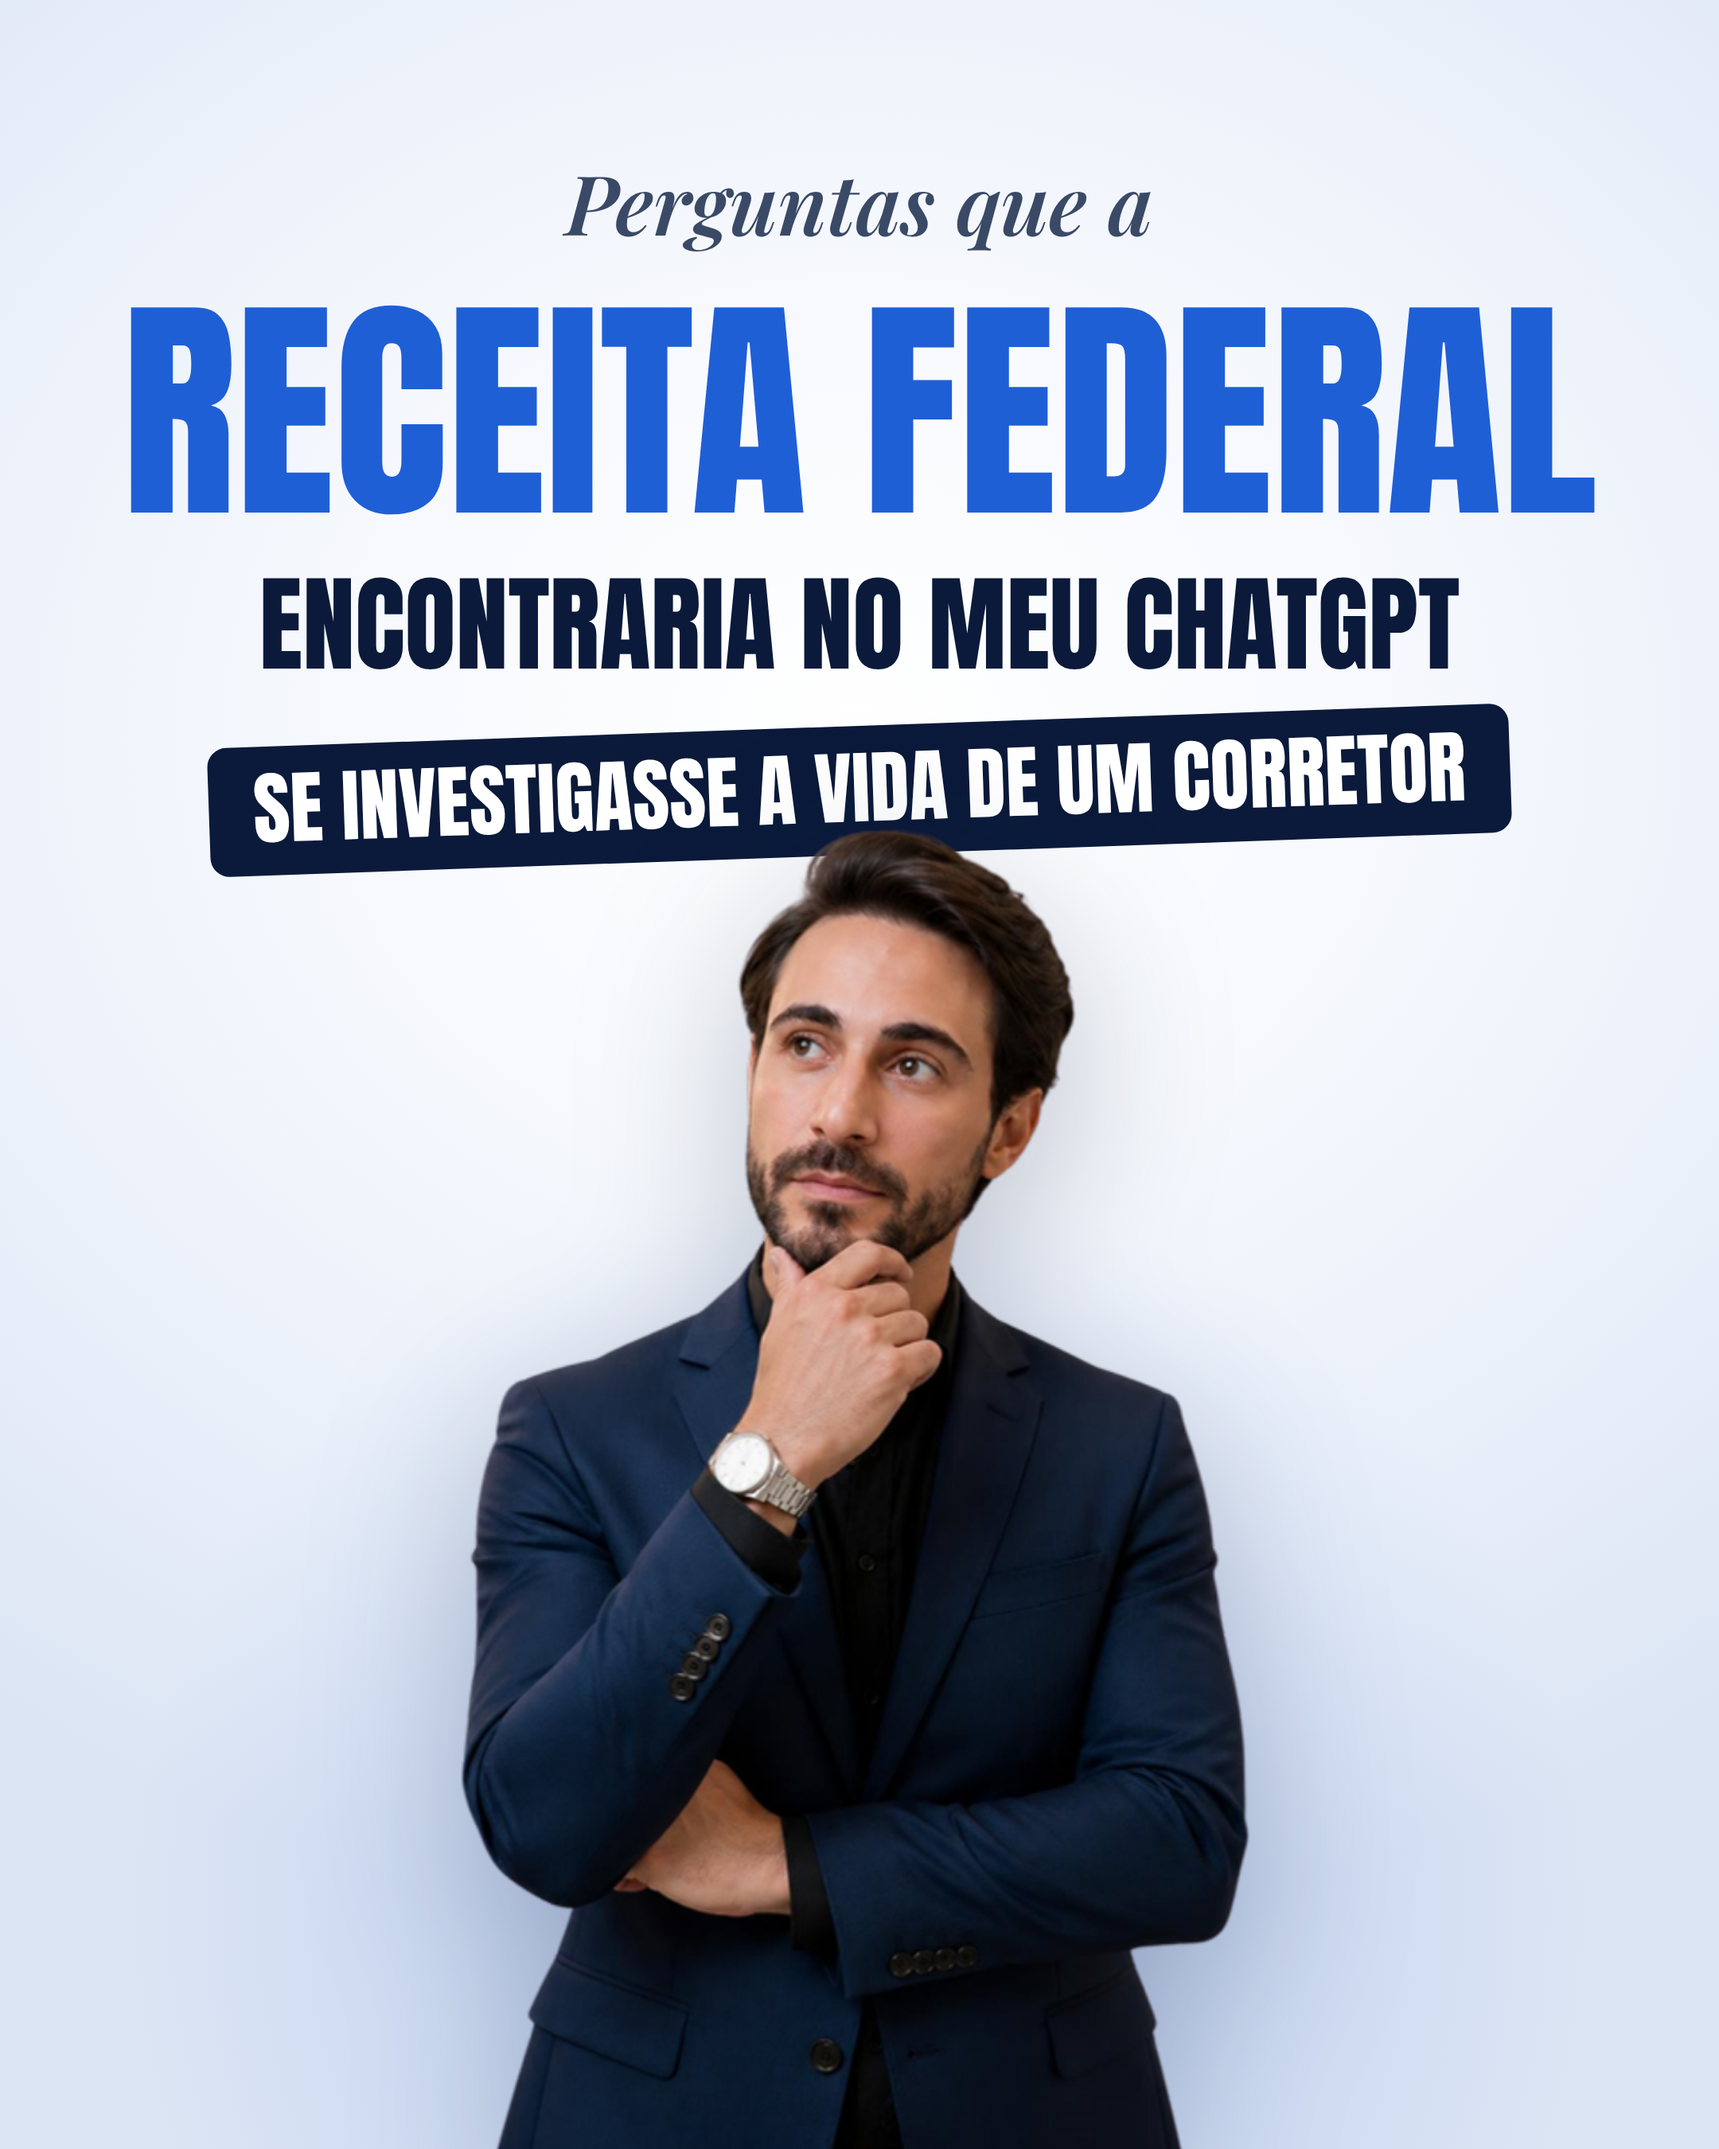
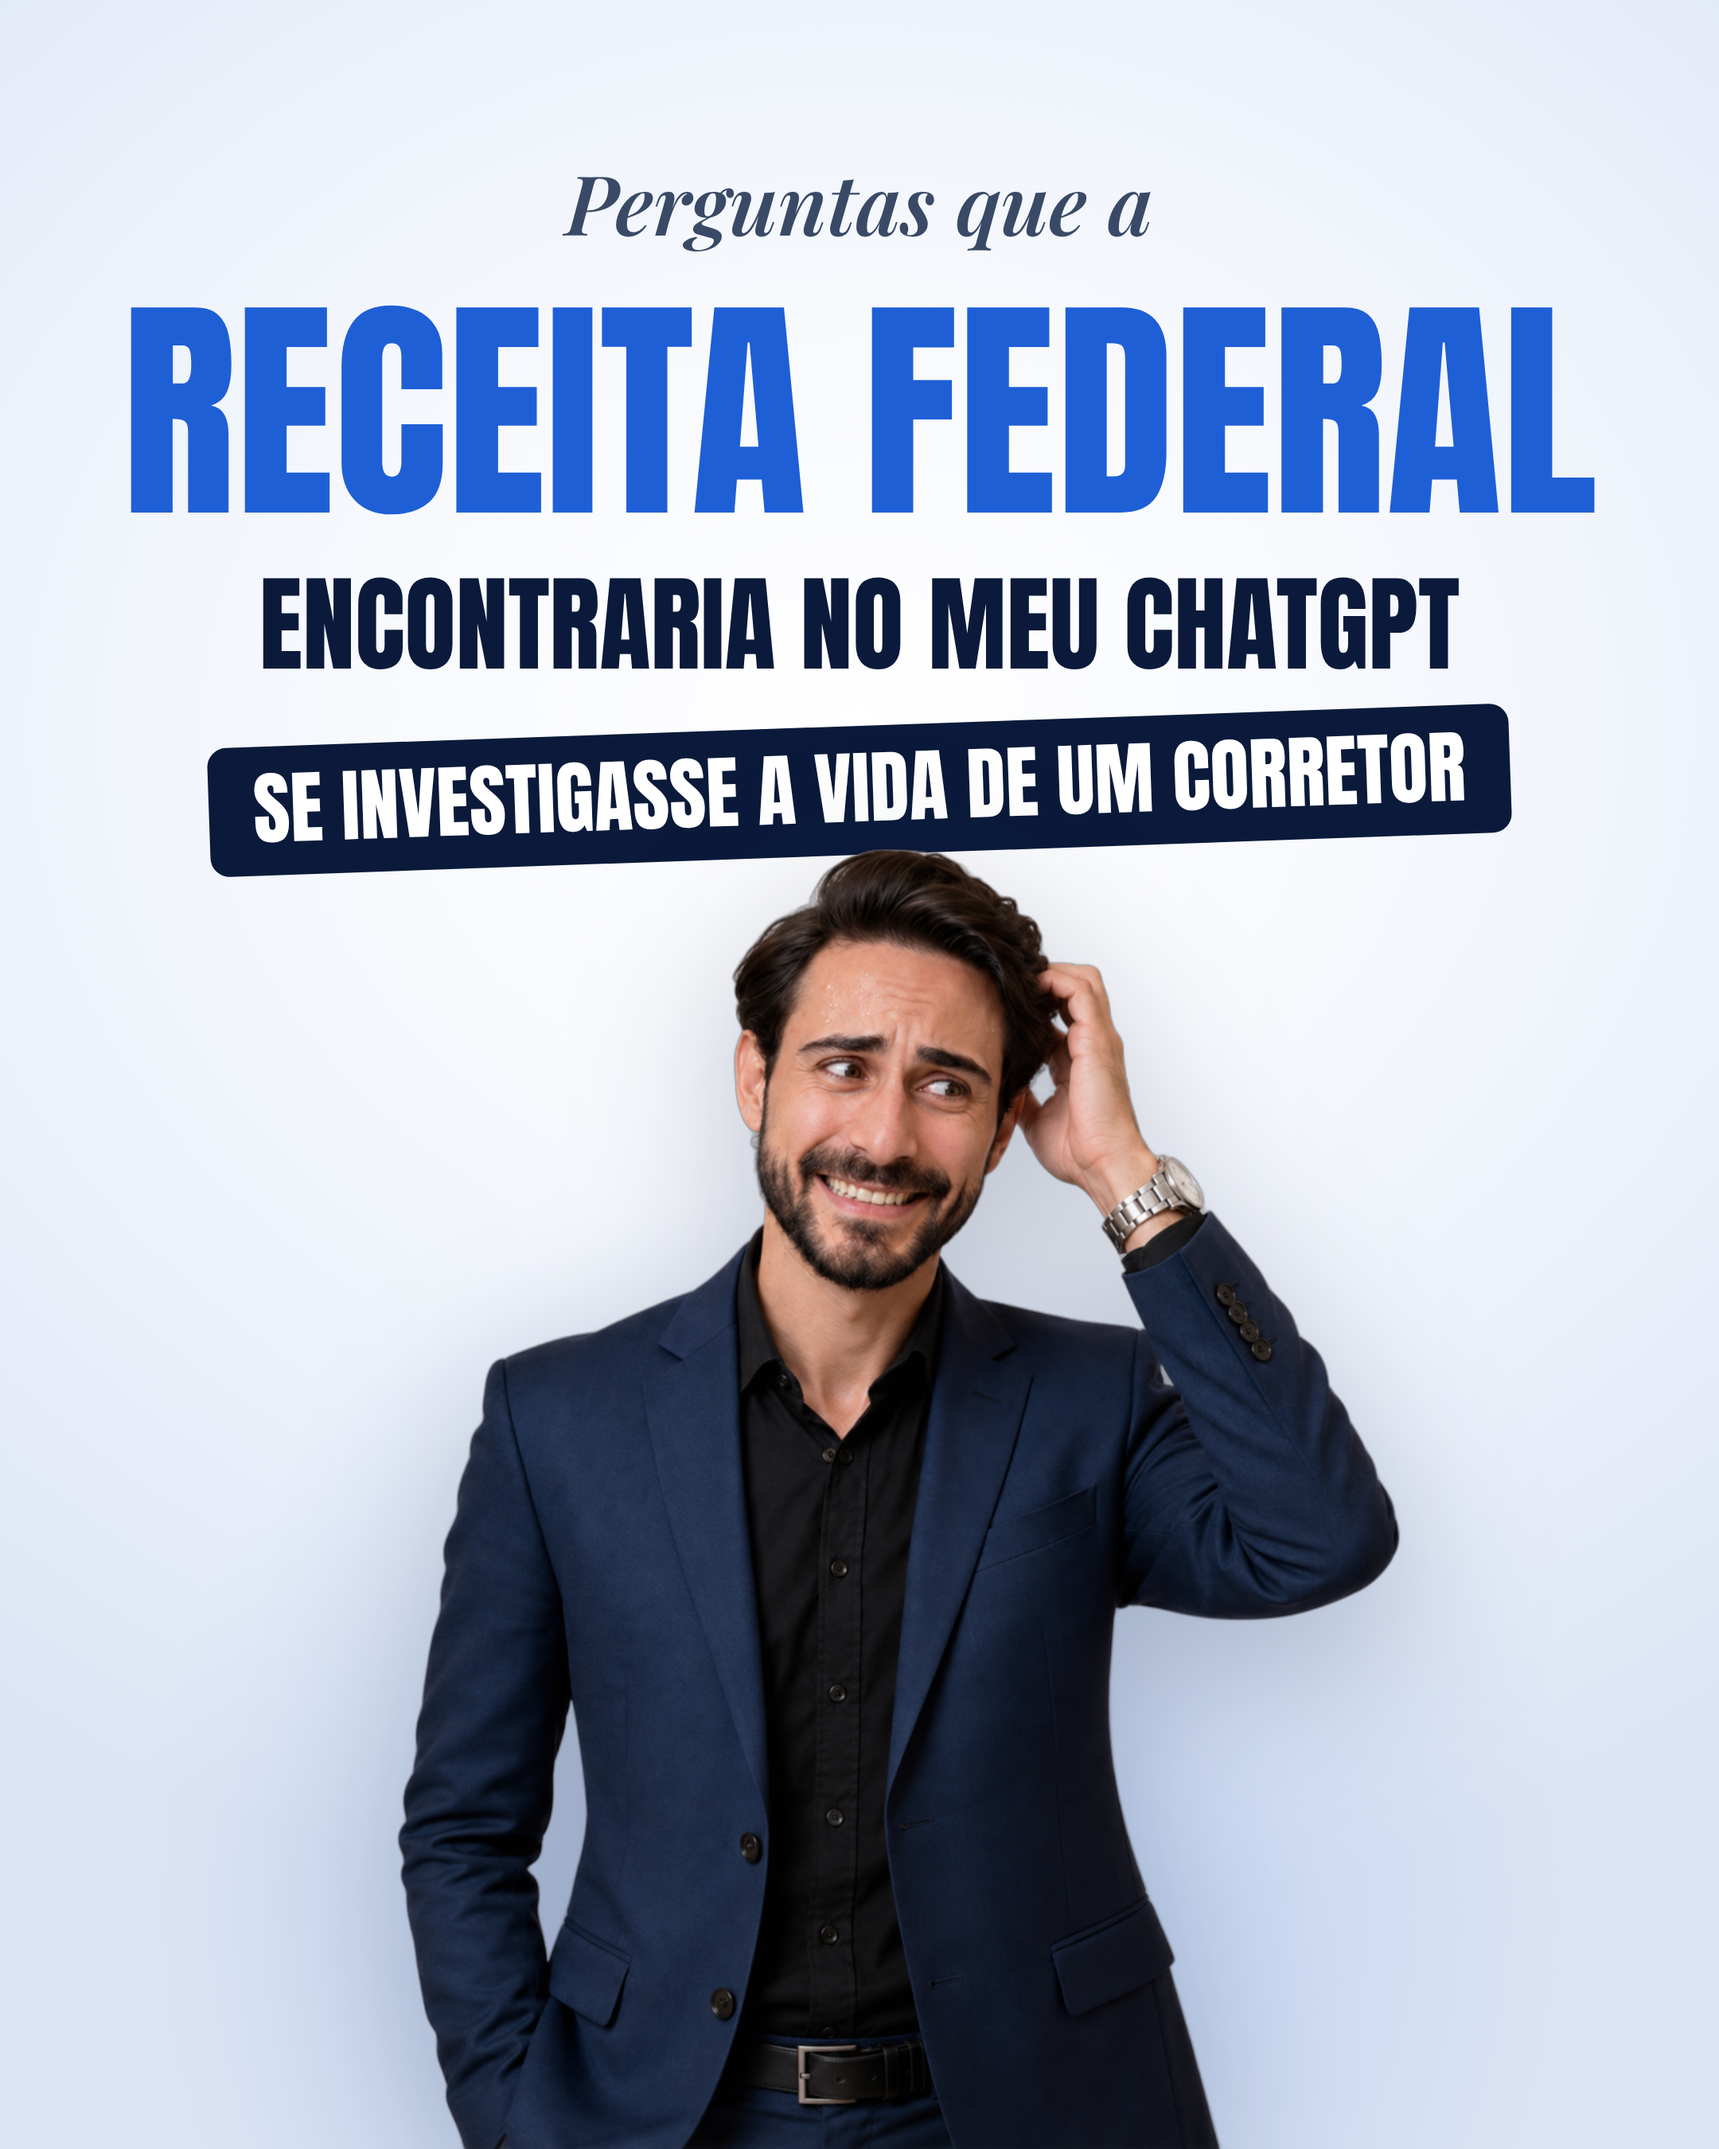
Carrossel Receita Federal: capa com nova pose 'desespero' do dono
Foto gerada pelo dono no ChatGPT, fundo removido (rembg isnet) e salva no acervo realista.

Claude-Session: https://claude.ai/code/session_01Np5ufUPjCUiaopUW7Sbfpp

Changed region(s): [[0.2171, 0.3733, 0.8375, 1.0]]

diff --git a/docs/posicionamento/carrosseis/2026-10-15-receita-federal-chatgpt/laminas.html b/docs/posicionamento/carrosseis/2026-10-15-receita-federal-chatgpt/laminas.html
@@ -28,7 +28,7 @@
  <div style="font-family:Anton;text-transform:uppercase;font-size:66px;line-height:1.24;margin-top:2px">encontraria no meu ChatGPT</div>
  <div style="display:inline-block;margin-top:22px;font-family:Anton;text-transform:uppercase;font-size:50px;line-height:1.3;background:var(--nav);color:#fff;padding:6px 28px 10px;border-radius:12px;transform:rotate(-2deg)">se investigasse a vida de um corretor</div>
 </div>
-<img src="img/pensativo.png" style="position:absolute;left:50%;bottom:0;transform:translateX(-50%);height:880px;z-index:2;filter:drop-shadow(0 30px 50px rgba(11,26,58,.25))">
+<img src="img/desespero.png" style="position:absolute;left:50%;bottom:0;transform:translateX(-50%);height:860px;z-index:2;filter:drop-shadow(0 30px 50px rgba(11,26,58,.25))">
 </section>
 <section class="lamina"><div class="chat"><div class="bal">Como responder um cliente que perguntou algo que já estava escrito no anúncio sem xingá-lo?<div class="meta">23:47<svg class="ck" viewBox="0 0 18 11"><path d="M1 5.6 4.6 9.2 12.2 1.4M7.4 9.2 15.4 1.4" fill="none" stroke="#53BDEB" stroke-width="1.6" stroke-linecap="round" stroke-linejoin="round"/></svg></div></div></div><div class="rod"><span>@MHM.MACHADO</span><svg viewBox="0 0 24 24"><circle cx="12" cy="12" r="10.5"/><path d="M10 7.5 14.5 12 10 16.5"/></svg></div></section>
 <section class="lamina"><div class="chat"><div class="bal">Me dê uma forma educada de perguntar se ele realmente vai falar com a esposa ou só quer encerrar a conversa.<div class="meta">00:12<svg class="ck" viewBox="0 0 18 11"><path d="M1 5.6 4.6 9.2 12.2 1.4M7.4 9.2 15.4 1.4" fill="none" stroke="#53BDEB" stroke-width="1.6" stroke-linecap="round" stroke-linejoin="round"/></svg></div></div></div><div class="rod"><span>@MHM.MACHADO</span><svg viewBox="0 0 24 24"><circle cx="12" cy="12" r="10.5"/><path d="M10 7.5 14.5 12 10 16.5"/></svg></div></section>

diff --git a/docs/posicionamento/ESTILO-CARROSSEL.md b/docs/posicionamento/ESTILO-CARROSSEL.md
@@ -110,4 +110,4 @@ Quando o dono mandar fotos de um imóvel, usar sempre este modelo. Exemplo: `car
 Depois de toda legenda, perguntar **"Vai postar agora?"**. Se a resposta for não, colocar o post em `docs/posicionamento/FILA-POSTAGEM.md`. Quando o dono pedir "o que tenho para postar?", listar por carrossel claro, carrossel azul e imóvel, e reenviar o que ele escolher.
 
 ## Acervo de fotos do dono (já recortadas, prontas para usar)
-`assets/boneco-3d/realista/`: apontando, bracos-cruzados, celular, celular-instagram (Instagram dele na tela), chave, comemorando, explicando, joinha, lupa, lupa-olho, malabares-contratos, pensando, pensativo, prancha. **Usar estas fotos; não gerar de novo.** Só gerar uma pose nova se o dono pedir ou se a capa precisar de algo inédito (método aprovado acima). Logos: `assets/mcmv-logo-branco.png` e `assets/mcmv-logo-cor.png`.
+`assets/boneco-3d/realista/`: apontando, bracos-cruzados, celular, celular-instagram (Instagram dele na tela), chave, comemorando, desespero (coçando a cabeça, sorriso nervoso; feita pelo dono no ChatGPT em 2026-10-15 com joinha + bracos-cruzados de referência, aprovada), explicando, joinha, lupa, lupa-olho, malabares-contratos, pensando, pensativo, prancha. **Usar estas fotos; não gerar de novo.** Só gerar uma pose nova se o dono pedir ou se a capa precisar de algo inédito (método aprovado acima). Logos: `assets/mcmv-logo-branco.png` e `assets/mcmv-logo-cor.png`.
